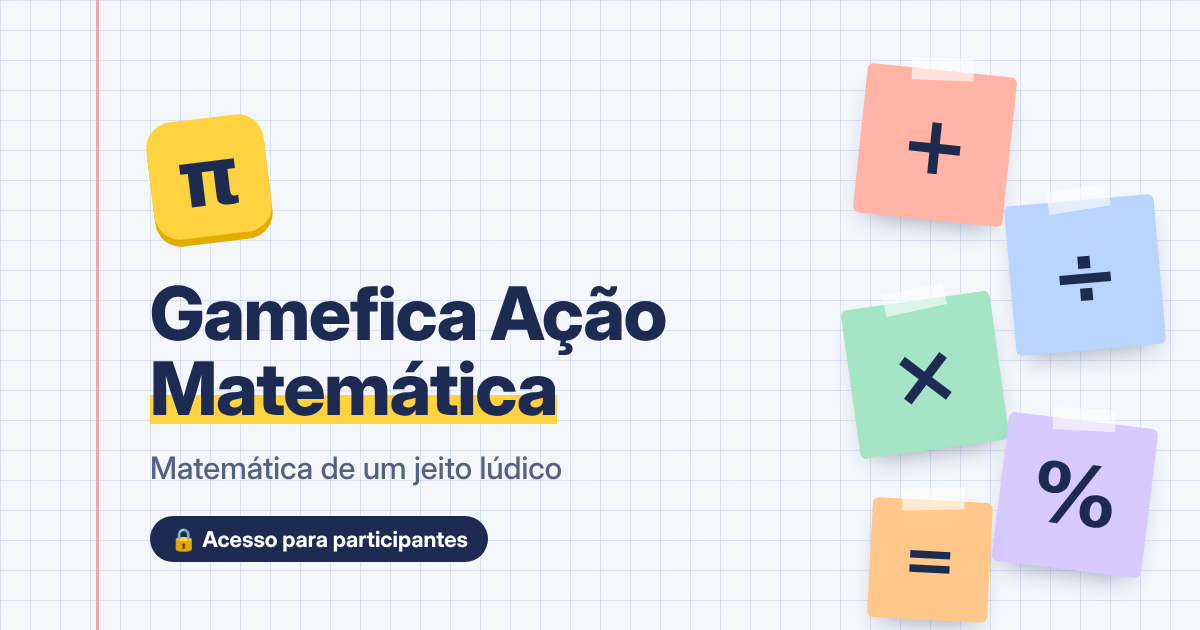
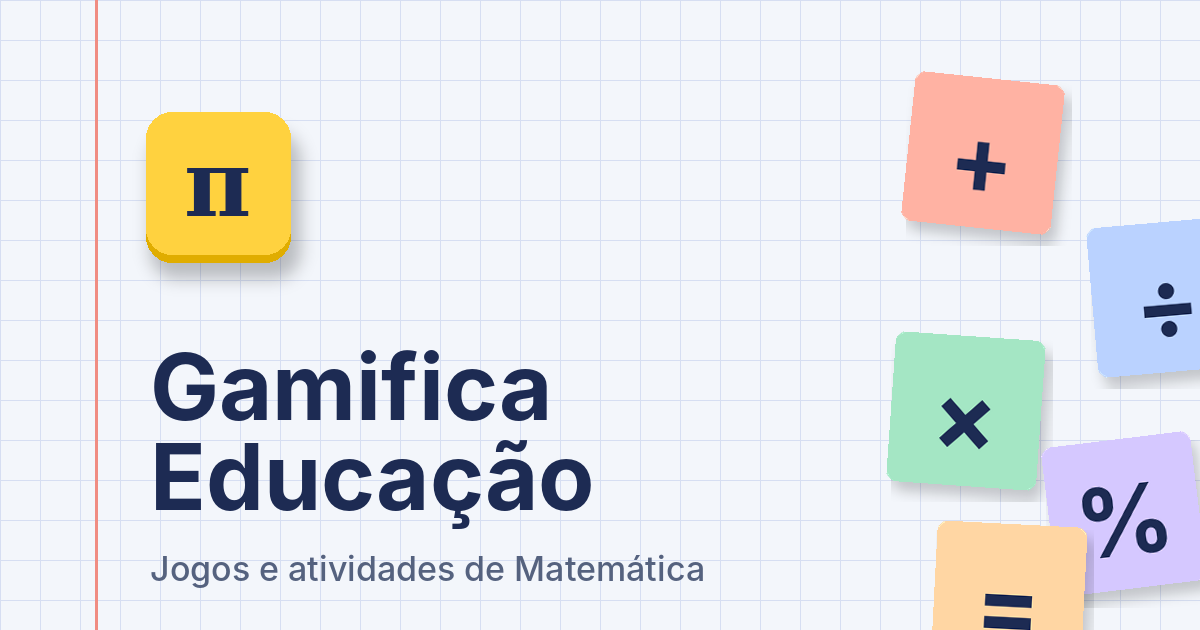
Pré-visualização de link: sem nome pessoal, com nova imagem de capa
Claude-Session: https://claude.ai/code/session_01TLGRcgCCQ4wjBvLxoFobFc

diff --git a/index.html b/index.html
@@ -8,7 +8,20 @@
 <link rel="icon" type="image/svg+xml" href="icone.svg?v=3">
 <link rel="icon" type="image/png" sizes="192x192" href="icone-192.png?v=3">
 <link rel="apple-touch-icon" href="icone-180.png?v=3">
-<meta name="description" content="Jogos e atividades de Matemática – Prof. Dr. Haroldo Aleixo de Lima Junior">
+<meta name="description" content="Jogos e atividades de Matemática para aprender de um jeito lúdico.">
+<meta property="og:type" content="website">
+<meta property="og:site_name" content="Gamifica Educação">
+<meta property="og:title" content="Gamifica Educação">
+<meta property="og:description" content="Jogos e atividades de Matemática para aprender de um jeito lúdico.">
+<meta property="og:url" content="https://gamificaeducacao.com.br/">
+<meta property="og:image" content="https://gamificaeducacao.com.br/capa.png?v=2">
+<meta property="og:image:width" content="1200">
+<meta property="og:image:height" content="630">
+<meta property="og:locale" content="pt_BR">
+<meta name="twitter:card" content="summary_large_image">
+<meta name="twitter:title" content="Gamifica Educação">
+<meta name="twitter:description" content="Jogos e atividades de Matemática para aprender de um jeito lúdico.">
+<meta name="twitter:image" content="https://gamificaeducacao.com.br/capa.png?v=2">
 <link rel="preconnect" href="https://fonts.googleapis.com">
 <link rel="preconnect" href="https://fonts.gstatic.com" crossorigin>
 <link rel="stylesheet" href="https://fonts.googleapis.com/css2?family=Fredoka:wght@500;600;700&family=Nunito:wght@400;600;700;800&display=swap">
